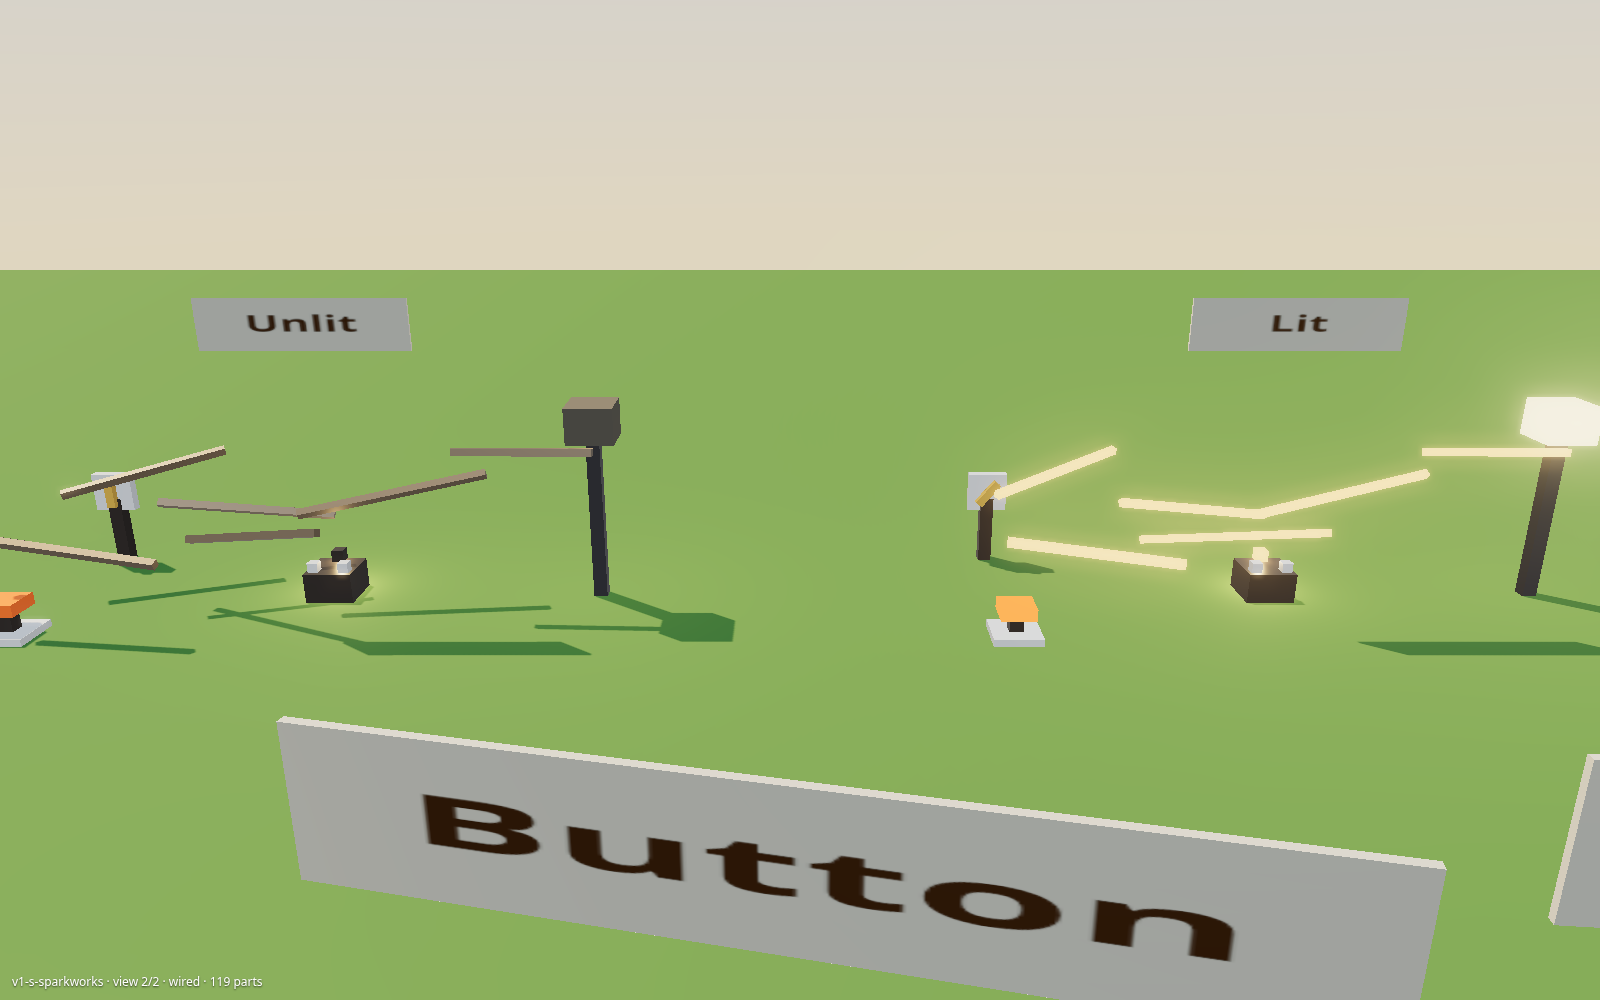
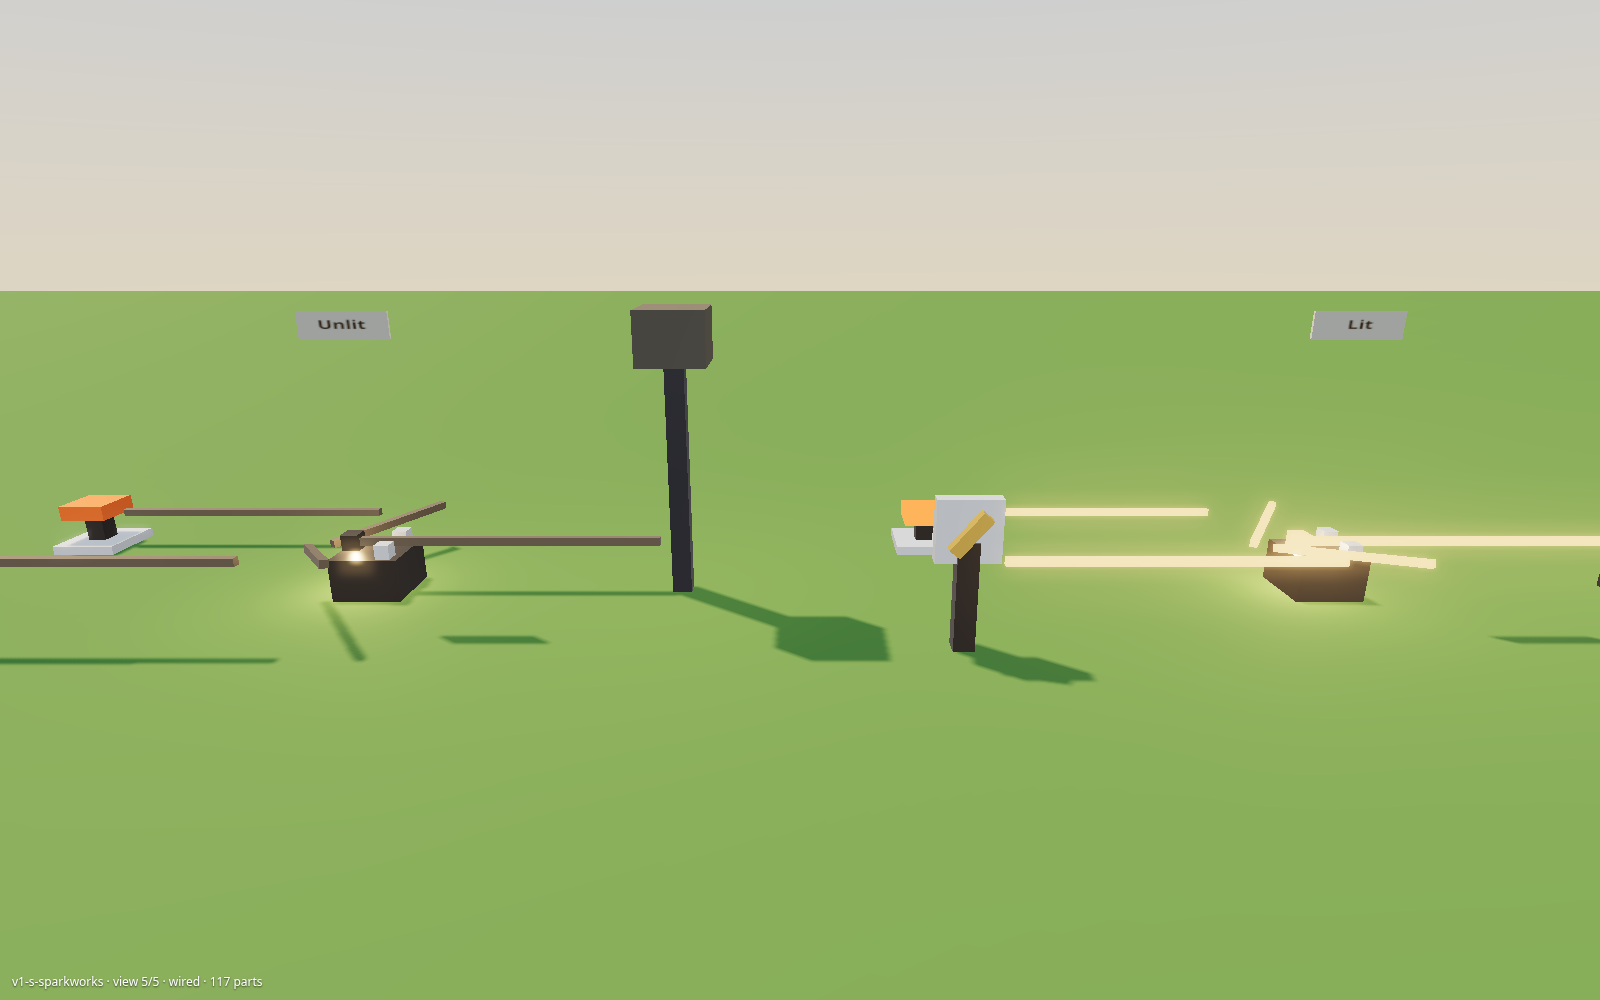
phase-2: close-up Sparkworks piece groups and a straight wired shot

diff --git a/STATUS.md b/STATUS.md
@@ -52,7 +52,7 @@ Connor reported a very long start. Measured in Lune (slower than Roblox, so use 
 
 ## What has landed (everything is on main; newest first)
 
-- **Sparkworks logic sandbox** (branch `phase-2/v1-s-sparkworks`, not merged; PHASE2_NOTES.md "Sparkworks logic sandbox" has the Studio checks). V1 wires: Button, Lever, Pressure Plate, Wall Switch, AND/OR/XOR/NOT, Delay, Sustain, Clock, Spark Lamp, Glow Wire, Hatch, plus the existing Door. Rules are `Shared/LogicGraph` (200 evaluations a pass, timers on a 0.1 s step, a loop shows Overloaded) and `Shared/WireLogic` (80 logic pieces and 160 wires per plot, proposals). Settings for Delay, Sustain and Clock are `profile.plot.logic` via `LogicSet`. The wire tool's first session says "Pick an output", "Pick an input", "Done: flip it" (not saved; that needs a remote, V1.1). `Shared/SparkworksStock` is the shelf list for Lane F. A `DemoBoard` part gets a live unsaved demo. Laser, Detector and Wood Detector are V1.1. Preview renders for Connor: `previews/v1-s/pieces.png` (two rows, 3/4, every name in frame), `previews/v1-s/wired.png` (lever and button into AND into a lamp, unlit and lit), `previews/v1-s/settings-panel-phone.png` (667x375) and `previews/v1-s/settings-panel-desktop.png` (1920x1080). The panel reads UITheme colors. Its display order (16) stays in `LogicPanelUI`'s `SparkworksTheme` until Lane U adds `Layers.LogicPanel`. Nothing of this has been seen in Studio yet.
+- **Sparkworks logic sandbox** (branch `phase-2/v1-s-sparkworks`, not merged; PHASE2_NOTES.md "Sparkworks logic sandbox" has the Studio checks). V1 wires: Button, Lever, Pressure Plate, Wall Switch, AND/OR/XOR/NOT, Delay, Sustain, Clock, Spark Lamp, Glow Wire, Hatch, plus the existing Door. Rules are `Shared/LogicGraph` (200 evaluations a pass, timers on a 0.1 s step, a loop shows Overloaded) and `Shared/WireLogic` (80 logic pieces and 160 wires per plot, proposals). Settings for Delay, Sustain and Clock are `profile.plot.logic` via `LogicSet`. The wire tool's first session says "Pick an output", "Pick an input", "Done: flip it" (not saved; that needs a remote, V1.1). `Shared/SparkworksStock` is the shelf list for Lane F. A `DemoBoard` part gets a live unsaved demo. Laser, Detector and Wood Detector are V1.1. Preview renders for Connor: `previews/v1-s/pieces-1.png` through `previews/v1-s/pieces-4.png` (at most four pieces, 3/4 from about 12 studs, name on a ground plaque), `previews/v1-s/wired.png` (lever and button into AND into a lamp, unlit beside lit, straight wires), `previews/v1-s/settings-panel-phone.png` (667x375) and `previews/v1-s/settings-panel-desktop.png` (1920x1080). The panel reads UITheme colors. Its display order (16) stays in `LogicPanelUI`'s `SparkworksTheme` until Lane U adds `Layers.LogicPanel`. Nothing of this has been seen in Studio yet.
 - **Choppable trees in and round the spawn area** (branch `claude/spawn-trees`, not merged; PHASE2_NOTES.md "Trees in the spawn area" has the sites, the keep-outs, the load numbers and the Studio checks). Connor: "We need more choppable trees in the spawn area too, near the pad, by the dealership. All over, it's a lumberjack game." `TreeFill.TownRings` (appended after `PlotRings`, its own rng per site) plants 54 real felling trees (stump stays, regrow) in 16 clusters from `Shared/TownTreeData.Sites`: 7 south-west of the spawn pad along the Forest Path, 20 round the showroom hall and Land Office (west strip, forecourt, behind, east), 10 on the town's west edge, 14 north (behind the mill, the Snow Road, north of the General Store), 3 south of the plot road. Woods follow the region (`woodsNear`), biome 'wild', one regrow zone per cluster ("town:<site>", cap = its size, radius 16 at most); NOT in BiomeData counts, so `tools/economy` and `tools/economy1` are unchanged (ECONOMY.md untouched). A town zone's regrow uses `TreeFill.GroundFor` -> `TownGround` (the flat town has no `GoodGround`), so a stump is never a dead end and a regrow obeys the same keep-outs as the first planting. Keep-outs: sell area x -60..60 z 80..140, a spawn lane x -18..18 z 8..100, every road (11 off), path, floor, building (9 off), the parking lot (12) and its pull-outs, loading pads, shop doors, the Land Office queue, the gondola's first 280 studs, the lighthouse lamp's sight line from the pad (WorldPlan.spec), the townsfolk's walks, props, lamps, signs, the ornamental greenery, plots (30 off), water, slopes. Tiers (`TownTreeData.Tiers`, `Count`, `Budget`): low 54 (shipped, `ShippedTier`), medium 74, high 85; trees are server-wide so one tier ships for everybody (a phone's), the others are pinned by spec and are a one-word switch. Phone discs: spawn 1.66x -> 1.95x trees and parts (189 -> 314 -> 368 trees) (cap `TownTreeData.PhoneDiscMax` 2.0; the fill alone is still held to 1.7x). Planning cost: `WorldPlan.Trees()` 8.7-9.0 s (Lune) before, 8.7-8.9 s after (town planning about 40 ms); it stays inside the deferred forest planter, nearest the sawmill first. New preview scene `spawn-trees`. Nothing seen in Studio yet.
 - **Saves by hand, Restart save in Settings, and Unload base** (branch `claude/plot-save-switch`, PR #113, not merged; PHASE2_NOTES.md "Saves by hand, and Unload base" has the design, the safeguards and the Studio checks). Connor: "with plots, they need a way to unload/save their base and switch to another"; "it shouldn't automatically load a save ... if that player has a plot, they pick a spot"; "restart save should be in settings"; and "switching between saves, and unloading your base with a button which also saves it, LT2 style". Switching bases is switching saves (the three whole-game slots, SAVES panel). Join is quality -> save picker -> (only if the picked save has a plot) plot picker (`Shared/JoinPickLogic`, `PickerSequence` quality/slot/plot); `SaveSlotService` holds a player "picking" (`SlotPick`) until `play(index)`; the save last left off is "Last played"; the 60 s plot-picker timeout starts when the picker is shown (`PlotShown`). REDO is gone from the SAVES list: RESTART SAVE n is a two-press row in Settings (`SettingsLogic.RestartRow`). UNLOAD BASE / LOAD BASE is the top button of the SAVES panel (`BaseLogic.ButtonFor`, `PlotService.BaseAction` "unload" / "load"): unload saves the save with the base in it, takes the pad's models down, sets visitors outside, frees the pad and leaves you in the world padless (the `profile.plot` record is untouched); load opens the free plot picker. 120 s cooldown (`baseCooldownUntil`, `GameConfig.BaseCooldownSec`), rate limited, refuses with loose wood on the plot, rolls back if the release throws. `VehicleService.ClearPads` takes pad models down on unload, slot swap and leave; pads are restored when a base lands on a pad. Old Hank is unchanged. Nothing seen in Studio yet.
 - **Drop axe has no button** (branch `claude/drop-axe-controls`, not merged; PHASE2_NOTES.md "Drop axe controls" has the B audit and the Studio checks). Connor: "why is there a drop axe button". The side button is gone on every platform. The held axe (or rolled plan) drops with B on a gamepad, Q or Backspace on a keyboard, and a long press on the hotbar strip on a phone (Roblox's hotbar is the engine's, so no per-slot button is possible); two presses as before, a toast says "Press B again to drop the Steel Axe." The rules are `Shared/DropControls` (`Decide`: drop, close or ignore; B closes whatever is open and never drops), bound in `AxeController` below every menu's B. Same conditions as before (`HudRules.DropAxe`, the server checks). The D-pad Down shortcut and the quick-menu tile are gone.

diff --git a/PHASE2_NOTES.md b/PHASE2_NOTES.md
@@ -42,7 +42,7 @@ tutorial).
 
 ## Sparkworks logic sandbox (8 October 2026, branch `phase-2/v1-s-sparkworks`)
 
-Connor wants Sparkworks in V1, and he wants to see the pieces before they merge. Renders (names only, no prices on the models): `previews/v1-s/pieces.png` (two rows, 3/4 view), `previews/v1-s/wired.png` (lever and button into AND into a lamp, unlit beside lit), `previews/v1-s/settings-panel-phone.png` (667x375) and `previews/v1-s/settings-panel-desktop.png` (1920x1080, the selection ring on minus). Panel colors are UITheme's. `SparkworksTheme.Layer = 16` is local until Lane U adds it.
+Connor wants Sparkworks in V1, and he wants to see the pieces before they merge. Renders (names only, no prices on the models): `previews/v1-s/pieces-1.png` through `previews/v1-s/pieces-4.png` (at most four pieces, 3/4 from about 12 studs, name on a ground plaque), `previews/v1-s/wired.png` (lever and button into AND into a lamp, unlit beside lit, straight wires), `previews/v1-s/settings-panel-phone.png` (667x375) and `previews/v1-s/settings-panel-desktop.png` (1920x1080, the selection ring on minus). Panel colors are UITheme's. `SparkworksTheme.Layer = 16` is local until Lane U adds it.
 
 What shipped: Button $320, Lever $520, Pressure Plate $640, Wall Switch $100, AND/OR/XOR $260, NOT $200, Delay $520, Sustain $520, Clock $902, Spark Lamp $150, Glow Wire $720, Hatch $830. A Door you already own can be wired. Bought once, then placed free. The Wall Switch and Spark Lamp stay on Hearth & Home until Lane F stocks Sparkworks from `SparkworksStock` (anyone who already owns one keeps it). Laser, Detector and Wood Detector are not in this pass (V1.1).
 
